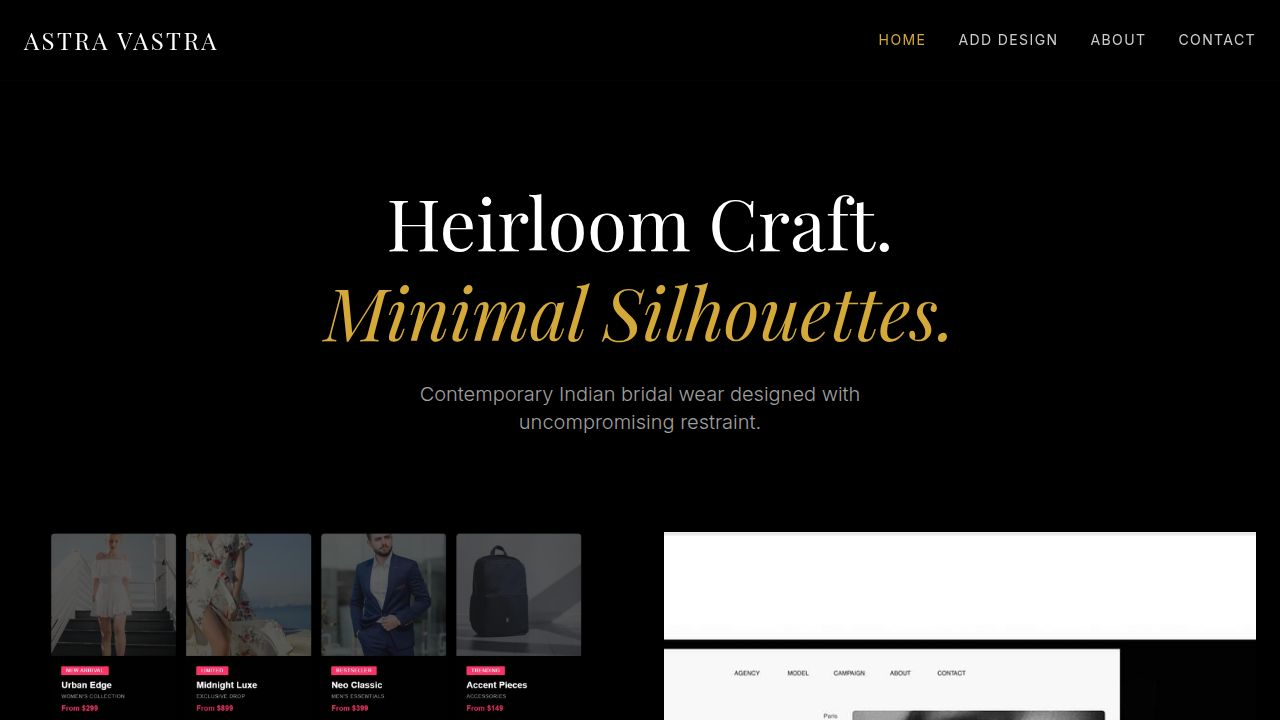
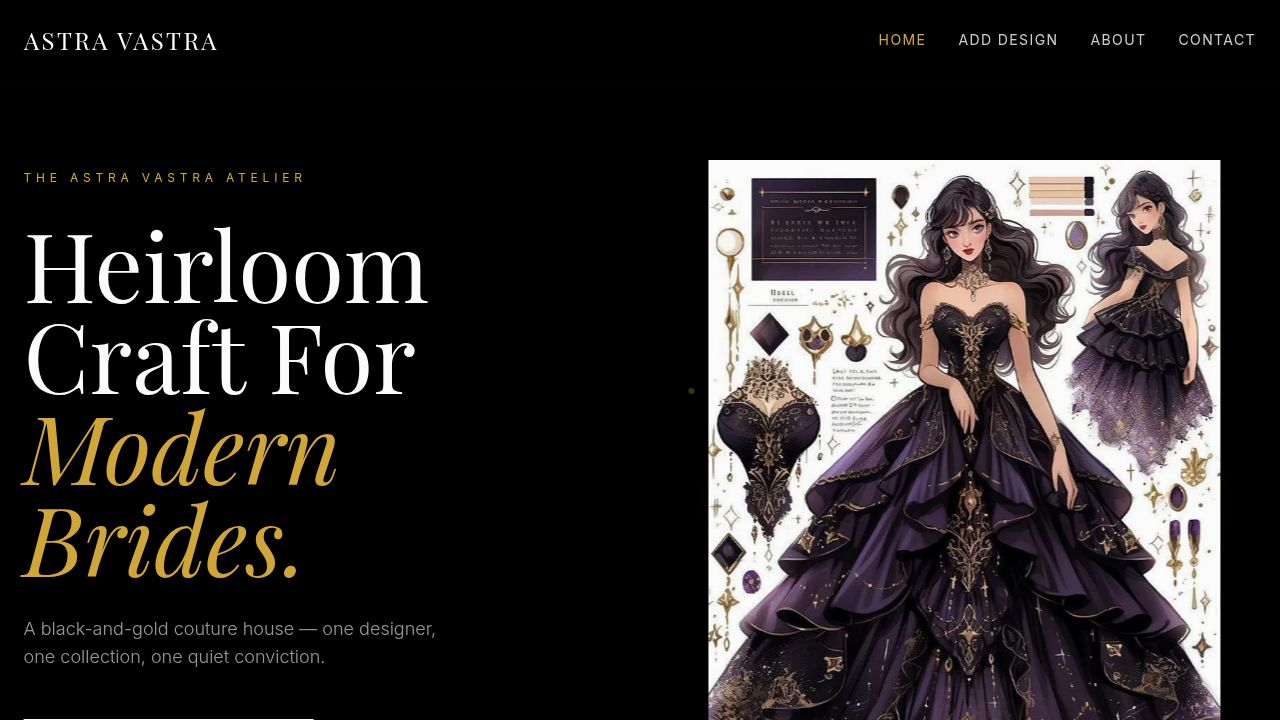
Make build configuration more robust by adding default values
Add default values for PORT and BASE_PATH in the Vite configuration to prevent build failures when environment variables are not explicitly set.

Replit-Commit-Author: Agent
Replit-Commit-Session-Id: 6663c608-9326-4f69-8a40-483f6186f9ed
Replit-Commit-Checkpoint-Type: full_checkpoint
Replit-Commit-Event-Id: 3aee9c29-7aed-49d2-b2a0-be158c015bf0
Replit-Commit-Screenshot-Url: https://storage.googleapis.com/screenshot-production-us-central1/233ad47a-8acf-437f-8d22-33892ebb3e50/6663c608-9326-4f69-8a40-483f6186f9ed/nGM8YEk
Replit-Helium-Checkpoint-Created: true

diff --git a/artifacts/astra-vastra/vite.config.ts b/artifacts/astra-vastra/vite.config.ts
@@ -4,27 +4,14 @@ import tailwindcss from "@tailwindcss/vite";
 import path from "path";
 import runtimeErrorOverlay from "@replit/vite-plugin-runtime-error-modal";
 
-const rawPort = process.env.PORT;
-
-if (!rawPort) {
-  throw new Error(
-    "PORT environment variable is required but was not provided.",
-  );
-}
-
+const rawPort = process.env.PORT ?? "5173";
 const port = Number(rawPort);
 
 if (Number.isNaN(port) || port <= 0) {
   throw new Error(`Invalid PORT value: "${rawPort}"`);
 }
 
-const basePath = process.env.BASE_PATH;
-
-if (!basePath) {
-  throw new Error(
-    "BASE_PATH environment variable is required but was not provided.",
-  );
-}
+const basePath = process.env.BASE_PATH ?? "/";
 
 export default defineConfig({
   base: basePath,